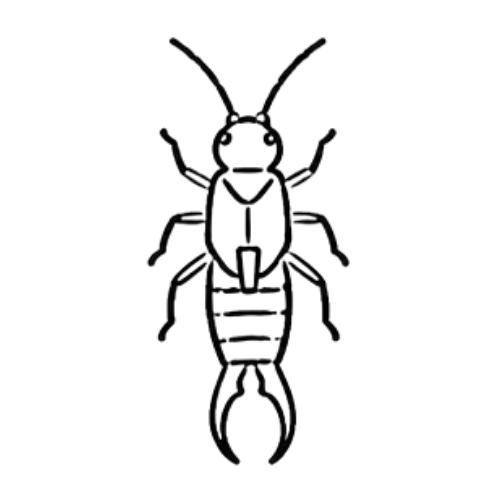
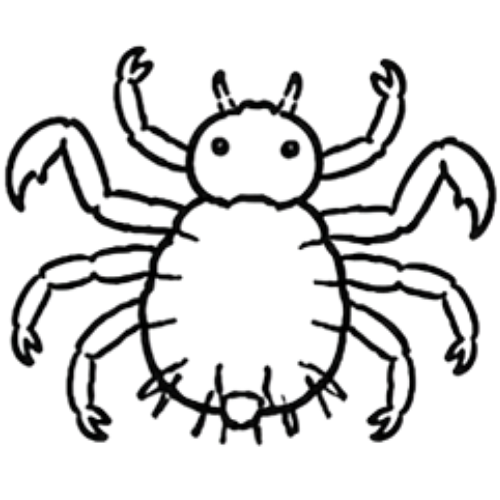
se añadieron 100 animales

Changed region(s): [[0.0, 0.06, 1.0, 0.93]]

diff --git a/src/data/flora.js b/src/data/flora.js
@@ -1,0 +1,84 @@
+export const listaFlora = [
+    // --- ÁRBOLES Y MADERAS (YAGA) ---
+    { id: 1, diidxaza: 'Yagaguiiri', spanish: 'ocote', image: '/images/yagaguiiri.png' },
+    { id: 2, diidxaza: 'Yagabi', spanish: 'mezquite', image: '/images/yagabi.png' },
+    { id: 3, diidxaza: 'Yagadu’ga', spanish: 'amate', image: '/images/yagaduga.png' },
+    { id: 4, diidxaza: 'Yagabioongo', spanish: 'ceiba', image: '/images/yagabioongo.png' },
+    { id: 5, diidxaza: 'Yagagueesa', spanish: 'sauce', image: '/images/yagagueesa.png' },
+    { id: 6, diidxaza: 'Yagasé', spanish: 'ficus', image: '/images/yagase.png' },
+    { id: 7, diidxaza: 'Yagadxima', spanish: 'guayacán', image: '/images/yagadxima.png' },
+    { id: 8, diidxaza: 'Yagasidilaana', spanish: 'mangle negro', image: '/images/yagasidilaana.png' },
+    { id: 9, diidxaza: 'Yagasidixhiiña', spanish: 'mangle rojo', image: '/images/yagasidixhiina.png' },
+    { id: 10, diidxaza: 'Yalaguitu', spanish: 'palo mulato', image: '/images/yalaguitu.png' },
+    { id: 11, diidxaza: 'Yalaguituxhaadxi', spanish: 'cuachalalate', image: '/images/yalaguituxhaadxi.png' },
+    { id: 12, diidxaza: 'Bizayaga', spanish: 'huanacaxtle', image: '/images/bizayaga.png' },
+    { id: 13, diidxaza: 'Biqui’che', spanish: 'huamúchil', image: '/images/biquiche.png' },
+    { id: 14, diidxaza: 'Bixia', spanish: 'otate', image: '/images/bixia.png' },
+    { id: 15, diidxaza: 'Gulabere', spanish: 'zazanil', image: '/images/gulabere.png' },
+    { id: 16, diidxaza: 'Xhagalá', spanish: 'cascalote', image: '/images/xhagala.png' },
+    { id: 17, diidxaza: 'La’guia', spanish: 'tepehuaje', image: '/images/laguia.png' },
+    { id: 18, diidxaza: 'Ziña', spanish: 'palma real', image: '/images/zina.png' },
+
+    // --- FRUTOS Y PLANTAS ALIMENTICIAS ---
+    { id: 19, diidxaza: 'Ya’xhu', spanish: 'aguacate', image: '/images/yaxhu.png' },
+    { id: 20, diidxaza: 'Bui’', spanish: 'guayaba', image: '/images/bui.png' },
+    { id: 21, diidxaza: 'Biahui', spanish: 'zapote negro', image: '/images/biahui.png' },
+    { id: 22, diidxaza: 'Biahudó', spanish: 'zapote blanco', image: '/images/biahudo.png' },
+    { id: 23, diidxaza: 'Guendadxiña', spanish: 'chicozapote', image: '/images/guendadxiina.png' },
+    { id: 24, diidxaza: 'Guendabidxu', spanish: 'anona', image: '/images/guendabidxu.png' },
+    { id: 25, diidxaza: 'Guendabidxuiquebere', spanish: 'chirimoya', image: '/images/guendabidxuiquebere.png' },
+    { id: 26, diidxaza: 'Guendaxunu', spanish: 'mamey', image: '/images/guendaxunu.png' },
+    { id: 27, diidxaza: 'Yape', spanish: 'chayote', image: '/images/yape.png' },
+    { id: 28, diidxaza: 'Biaagueta', spanish: 'tuna', image: '/images/biaagueta.png' },
+    { id: 29, diidxaza: 'Bidxii', spanish: 'pitaya', image: '/images/bidxii.png' },
+    { id: 30, diidxaza: 'Bidxibeenda', spanish: 'pitahaya', image: '/images/bidxibeenda.png' },
+    { id: 31, diidxaza: 'Gú', spanish: 'camote', image: '/images/gu.png' },
+    { id: 32, diidxaza: 'Guyaga', spanish: 'yuca', image: '/images/guyaga.png' },
+    { id: 33, diidxaza: 'Bizá', spanish: 'frijol', image: '/images/biza.png' },
+    { id: 34, diidxaza: 'Bizahuiini', spanish: 'ejote', image: '/images/bizahuiini.png' },
+    { id: 35, diidxaza: 'Biádxigui’', spanish: 'ciruelo de monte', image: '/images/biadxigui.png' },
+    { id: 36, diidxaza: 'Guituxheembe’', spanish: 'chilacayota', image: '/images/guituxheembe.png' },
+    { id: 37, diidxaza: 'Bituxiga', spanish: 'morro', image: '/images/bituxiga.png' },
+    { id: 38, diidxaza: 'Biduagui’xhi', spanish: 'cuajilote', image: '/images/biduaguixhi.png' },
+    { id: 39, diidxaza: 'Bicho’xhe', spanish: 'jitomate', image: '/images/bichoxhe.png' },
+    { id: 40, diidxaza: 'Xandié', spanish: 'sandía', image: '/images/xandie.png' },
+
+    // --- FLORES Y PLANTAS DE ORNATO (GUIE’) ---
+    { id: 41, diidxaza: 'Guie’chaachi', spanish: 'flor de mayo', image: '/images/guiechaachi.png' },
+    { id: 42, diidxaza: 'Guie’bigua', spanish: 'cempasúchil', image: '/images/guiebigua.png' },
+    { id: 43, diidxaza: 'Guie’stia’', spanish: 'albahaca', image: '/images/guiestia.png' },
+    { id: 44, diidxaza: 'Guie’nisa', spanish: 'madre cacao', image: '/images/guienisa.png' },
+    { id: 45, diidxaza: 'Guie’xoba', spanish: 'jasmín del istmo', image: '/images/guiexoba.png' },
+    { id: 46, diidxaza: 'Guie’yase', spanish: 'olivo negro', image: '/images/guieyase.png' },
+    { id: 47, diidxaza: 'Guie’gaade', spanish: 'lonchocarpus', image: '/images/guiegaade.png' },
+    { id: 48, diidxaza: 'Guie’tiqui', spanish: 'flor de estrella', image: '/images/guietiqui.png' },
+    { id: 49, diidxaza: 'Bacua’', spanish: 'flor amarilla silvestre', image: '/images/bacua.png' },
+    { id: 50, diidxaza: 'Birubaguiña', spanish: 'hibisco', image: '/images/birubaguina.png' },
+    { id: 51, diidxaza: 'Mudubina', spanish: 'nenúfar', image: '/images/mudubina.png' },
+
+    // --- HIERBAS, ARBUSTOS Y PLANTAS MEDICINALES ---
+    { id: 52, diidxaza: 'Bitia’', spanish: 'epazote', image: '/images/bitia.png' },
+    { id: 53, diidxaza: 'Bitiatubi', spanish: 'epazote zorrillo', image: '/images/bitiatubi.png' },
+    { id: 54, diidxaza: 'Xheedxe', spanish: 'verdolaga', image: '/images/xheedxe.png' },
+    { id: 55, diidxaza: 'Gueza', spanish: 'tabaco', image: '/images/gueza.png' },
+    { id: 56, diidxaza: 'Gobaguí', spanish: 'carrizo', image: '/images/gobagui.png' },
+    { id: 57, diidxaza: 'Banduí', spanish: 'musgo', image: '/images/bandui.png' },
+    { id: 58, diidxaza: 'Guixica’hui', spanish: 'jiquilite', image: '/images/guixicahui.png' },
+    { id: 59, diidxaza: 'Guixitee', spanish: 'artemisa', image: '/images/guixitee.png' },
+    { id: 60, diidxaza: 'Gúñe', spanish: 'suelda consuelda', image: '/images/guñe.png' },
+    { id: 61, diidxaza: 'Guiichibiagueta', spanish: 'nopal', image: '/images/guiichibiagueta.png' },
+    { id: 62, diidxaza: 'Guiichigu’xhu', spanish: 'tepezcohuite', image: '/images/guiichiguxhu.png' },
+    { id: 63, diidxaza: 'Guiichibidu’', spanish: 'mala mujer', image: '/images/guiichibidu.png' },
+    { id: 64, diidxaza: 'Zapandú', spanish: 'chintul', image: '/images/zapandu.png' },
+    { id: 65, diidxaza: 'Du’ba', spanish: 'maguey', image: '/images/duba.png' },
+
+    // --- EL MAÍZ Y SUS PARTES ---
+    { id: 66, diidxaza: 'Xuba’', spanish: 'maíz grano', image: '/images/xuba.png' },
+    { id: 67, diidxaza: 'Niza', spanish: 'mazorca', image: '/images/niza.png' },
+    { id: 68, diidxaza: 'Zee', spanish: 'elote', image: '/images/zee.png' },
+    { id: 69, diidxaza: 'Duuza’', spanish: 'planta de maíz tierna', image: '/images/duuza.png' },
+    { id: 70, diidxaza: 'Du', spanish: 'flor del maíz', image: '/images/du.png' },
+    { id: 71, diidxaza: 'Xubaniaa', spanish: 'nixtamal', image: '/images/xubaniaa.png' },
+    { id: 72, diidxaza: 'Xubaande’', spanish: 'maíz cocido para pozol', image: '/images/xubaande.png' },
+    { id: 73, diidxaza: 'Bacueœa', spanish: 'totomostle', image: '/images/bacueoa.png' }
+];
